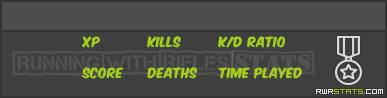
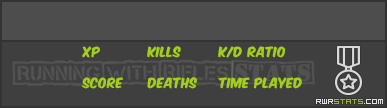
Update player signature by adding database name

diff --git a/dynamic_image.py b/dynamic_image.py
@@ -166,7 +166,7 @@ class DynamicPlayerImage(DynamicImage):
     def _do_create_header(self):
         """Create the top of the dynamic player image."""
         # Username
-        self._draw_text((9, 3), self.player.username, font=big_font)
+        self._draw_text((9, 0), self.player.username, font=big_font)
 
         # Player icon
         if self.player.is_me or self.player.is_contributor or self.player.is_rwr_dev:
@@ -175,49 +175,47 @@ class DynamicPlayerImage(DynamicImage):
             if self.player.is_me:
                 epoc_image = Image.open('static/images/epoc.png').convert('RGBA')
 
-                self._paste(epoc_image, (username_w + 8, 5))
+                self._paste(epoc_image, (username_w + 8, 2))
             elif self.player.is_contributor:
                 contributor_image = Image.open('static/images/dynamic_images/contributor.png').convert('RGBA')
 
-                self._paste(contributor_image, (username_w + 11, 8))
+                self._paste(contributor_image, (username_w + 12, 5))
             elif self.player.is_rwr_dev:
                 rwr_icon_image = Image.open('static/images/rwr_icon.png').convert('RGBA')
 
-                self._paste(rwr_icon_image, (username_w + 11, 5))
-
-        # Database name
-        # TODO Actually implement
-        #database_name_w, database_name_h = self.image_draw.textsize(self.player.database_name, font=small_font)
-
-        #self._draw_text((self.image.width - database_name_w - 7, 8), self.player.database_name, font=small_font)
+                self._paste(rwr_icon_image, (username_w + 13, 2))
 
         # Rank name
-        # TODO Update position
-        rank_name_w, rank_name_h = self.image_draw.textsize(self.player.rank.name, font=small_font)
+        self._draw_text((9, 22), self.player.rank.name, font=small_font)
 
-        self._draw_text((self.image.width - rank_name_w - 7, 8), self.player.rank.name, font=small_font)
+        # Database name
+        database_name = '{} profile'.format(self.player.database_name)
+
+        database_name_w, database_name_h = self.image_draw.textsize(database_name, font=normal_font)
+
+        self._draw_text((self.image.width - database_name_w - 7, 12), database_name, font=normal_font)
 
     def _do_create_body(self):
         """Create the body (main area) of the dynamic player image."""
         # Rank image
         rank_image = Image.open('static' + self.player.rank.image).convert('RGBA')
 
-        self._paste(rank_image, (3, 32))
+        self._paste(rank_image, (3, 42))
 
         # XP
-        self._draw_text((82, 45), helpers.simplified_integer(self.player.xp))
+        self._draw_text((82, 55), helpers.simplified_integer(self.player.xp))
 
         # Score
-        self._draw_text((82, 76), helpers.simplified_integer(self.player.score))
+        self._draw_text((82, 86), helpers.simplified_integer(self.player.score))
 
         # Kills
-        self._draw_text((148, 45), helpers.simplified_integer(self.player.kills))
+        self._draw_text((148, 55), helpers.simplified_integer(self.player.kills))
 
         # Deaths
-        self._draw_text((148, 76), helpers.simplified_integer(self.player.deaths))
+        self._draw_text((148, 86), helpers.simplified_integer(self.player.deaths))
 
         # K/D ratio
-        self._draw_text((219, 44), str(self.player.kd_ratio))
+        self._draw_text((219, 54), str(self.player.kd_ratio))
 
         # Time played
-        self._draw_text((219, 76), helpers.humanize_seconds_to_hours(self.player.time_played))
+        self._draw_text((219, 86), helpers.humanize_seconds_to_hours(self.player.time_played))
